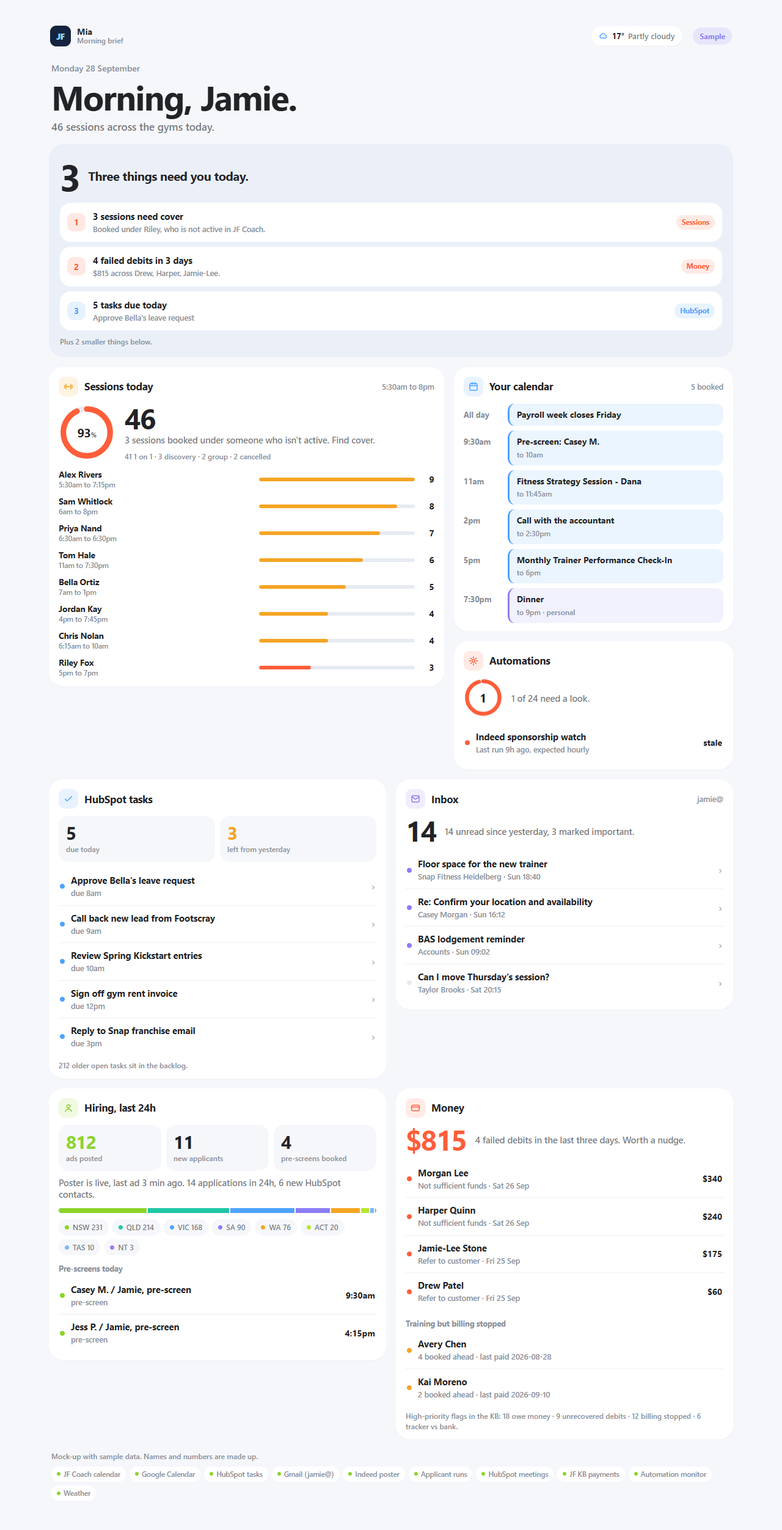
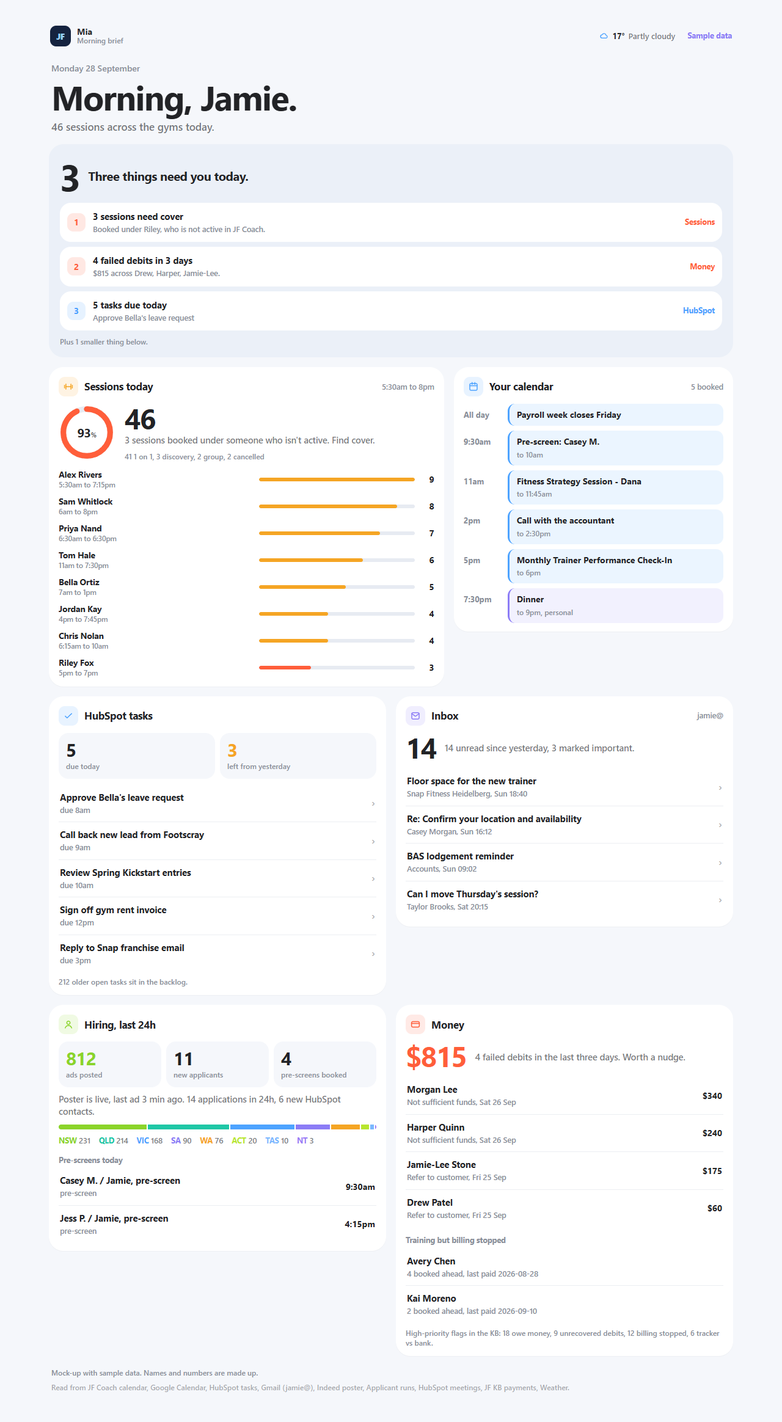
Morning brief mock-up r2: no pills or status dots, fleet watch dropped

diff --git a/index.html b/index.html
@@ -1,4 +1,4 @@
-<!doctype html><html lang="en-AU"><head><meta charset="utf-8"><meta name="viewport" content="width=device-width,initial-scale=1,viewport-fit=cover"><link rel="icon" href="data:,"><meta name="robots" content="noindex,nofollow"><meta name="referrer" content="no-referrer"><meta name="theme-color" content="#F5F7FB" media="(prefers-color-scheme: light)"><meta name="theme-color" content="#15161B" media="(prefers-color-scheme: dark)"><title>Morning brief · Monday 28 September</title><style>
+<!doctype html><html lang="en-AU"><head><meta charset="utf-8"><meta name="viewport" content="width=device-width,initial-scale=1,viewport-fit=cover"><link rel="icon" href="data:,"><meta name="robots" content="noindex,nofollow"><meta name="referrer" content="no-referrer"><meta name="theme-color" content="#F5F7FB" media="(prefers-color-scheme: light)"><meta name="theme-color" content="#15161B" media="(prefers-color-scheme: dark)"><title>Morning brief, Monday 28 September</title><style>
 :root{--ink:#222326;--ink2:rgba(31,32,37,.6);--ink3:rgba(31,32,37,.38);--muted:#8A8F99;--bg:#F5F7FB;--tile:#FFFFFF;--card:#EBF0F8;
 --track:#E7EBF2;--hair:#ECEEF2;--dark:#1F2025;--green:#8BD42A;--ease:cubic-bezier(.2,.7,.2,1);color-scheme:light dark}
 @media (prefers-color-scheme:dark){:root{--ink:#FFFFFF;--ink2:rgba(255,255,255,.62);--ink3:rgba(255,255,255,.38);--muted:rgba(255,255,255,.5);
@@ -12,9 +12,9 @@ a{color:inherit;text-decoration:none}
 .top{display:flex;align-items:center;gap:10px;padding:6px 2px 0}
 .mark{width:34px;height:34px;border-radius:10px;background:#15233F;color:#9CD3FF;display:grid;place-items:center;font:800 13px/1 Inter,system-ui,sans-serif;letter-spacing:-.02em}
 .who{display:flex;flex-direction:column;line-height:1.15}.who b{font-size:14px;font-weight:650}.who small{font-size:12px;color:var(--muted)}
-.wchip{margin-left:auto;white-space:nowrap;display:inline-flex;align-items:center;gap:6px;padding:7px 12px;border-radius:128px;background:var(--tile);box-shadow:0 1px 0 rgba(0,0,0,.03);font-size:13px;color:var(--ink2)}
+.wchip{margin-left:auto;white-space:nowrap;display:inline-flex;align-items:center;gap:6px;font-size:13px;color:var(--ink2)}
 .wchip b{color:var(--ink);font-weight:700}
-.samp{margin-left:8px;padding:6px 11px;border-radius:128px;background:rgba(140,124,246,.14);color:#8C7CF6;font-size:12px;font-weight:650}
+.samp{margin-left:10px;color:#8C7CF6;font-size:12.5px;font-weight:650}
 .hello{padding:26px 4px 18px}
 .hello .date{font-size:14px;color:var(--muted);font-weight:600}
 .hello h1{font-size:40px;line-height:1;font-weight:700;letter-spacing:-.03em;margin-top:8px}
@@ -34,7 +34,7 @@ background:color-mix(in srgb,var(--c) 14%,transparent)}
 .rt{flex:1;min-width:0;display:flex;flex-direction:column;gap:2px}
 .rt b{font-weight:650;font-size:15px;letter-spacing:-.01em;overflow:hidden;text-overflow:ellipsis}
 .rt small{font-size:12.5px;color:var(--muted);overflow:hidden;text-overflow:ellipsis;white-space:nowrap}
-.tag{flex:none;font-size:11.5px;font-weight:650;color:var(--c);padding:4px 9px;border-radius:128px;background:color-mix(in srgb,var(--c) 13%,transparent)}
+.area{flex:none;font-size:12.5px;font-weight:650}
 .th{display:flex;align-items:center;gap:10px;margin-bottom:12px}
 .th h2{font-size:17px;font-weight:700;letter-spacing:-.02em}
 .thr{margin-left:auto;font-size:12.5px;color:var(--muted);font-weight:600}
@@ -80,35 +80,33 @@ a.row:active{opacity:.6}
 .stack{display:flex;height:8px;border-radius:8px;overflow:hidden;gap:2px;margin-top:12px}
 .stack i{width:var(--w);transform-origin:left;transform:scaleX(0);transition:transform 1.1s var(--ease) .3s}
 .in .stack i{transform:scaleX(1)}
-.chips{display:flex;flex-wrap:wrap;gap:6px;margin-top:10px}
-.chip{display:inline-flex;align-items:center;gap:6px;font-size:12px;font-weight:600;padding:5px 10px;border-radius:128px;background:var(--bg);color:var(--ink2)}
-.chip i{width:7px;height:7px;border-radius:50%}
+.legend{display:flex;flex-wrap:wrap;gap:4px 14px;margin-top:10px;font-size:12.5px;font-weight:600;color:var(--ink2)}
+.legend b{font-weight:700}
 .off{opacity:.85}.big-off{font-size:15px;font-weight:600;color:var(--ink2)}
 .foot{margin:18px 4px 0;font-size:12px;color:var(--muted);line-height:1.5}
-.src{display:flex;flex-wrap:wrap;gap:6px;margin-top:8px}
-.src span{display:inline-flex;align-items:center;gap:5px;padding:4px 9px;border-radius:128px;background:var(--tile);font-size:11.5px;font-weight:600}
-.src i{width:6px;height:6px;border-radius:50%}
+.src{margin-top:6px;color:var(--ink3)}
+.wl{margin-bottom:8px;font-size:13px;color:var(--ink2)}.wl a{color:var(--blue,#4DA3FF);font-weight:650}
 .rv{opacity:0;transform:translateY(28px);filter:blur(8px);transition:opacity 1s var(--ease),transform 1s var(--ease),filter 1s var(--ease);transition-delay:calc(var(--d,0)*.08s)}
 .rv.in{opacity:1;transform:none;filter:none}
 @media (min-width:900px){body{padding:36px 28px 48px}.wrap{max-width:1120px}.grid{grid-template-columns:repeat(12,1fr);gap:16px}
 .col{gap:16px}.span12{grid-column:span 12}.span7{grid-column:span 7}.span5{grid-column:span 5}.span6{grid-column:span 6}.hello h1{font-size:56px}}
 @media (prefers-reduced-motion:reduce){.rv{opacity:1;transform:none;filter:none;transition:none}.ring .val{transition:none;stroke-dasharray:var(--v) 100}
 .bf,.stack i{transition:none;transform:none}}
-@supports not (background:color-mix(in srgb,red 10%,transparent)){.isq,.pn,.tag{background:rgba(120,130,150,.14)}.tb{background:rgba(120,130,150,.1)}}
+@supports not (background:color-mix(in srgb,red 10%,transparent)){.isq,.pn{background:rgba(120,130,150,.14)}.tb{background:rgba(120,130,150,.1)}}
 </style></head><body>
 <div class="wrap">
-  <header class="top rv"><span class="mark">JF</span><div class="who"><b>Mia</b><small>Morning brief</small></div><span class="wchip"><svg width="16" height="16" viewBox="0 0 24 24" fill="none" stroke="#4DA3FF" stroke-width="2" stroke-linecap="round" stroke-linejoin="round" aria-hidden="true"><path d="M7 17a4 4 0 010-8 5 5 0 019.6 1.2A3.5 3.5 0 0117 17z"/></svg><b>17°</b><span>Partly cloudy</span></span><span class="samp">Sample</span></header>
+  <header class="top rv"><span class="mark">JF</span><div class="who"><b>Mia</b><small>Morning brief</small></div><span class="wchip"><svg width="16" height="16" viewBox="0 0 24 24" fill="none" stroke="#4DA3FF" stroke-width="2" stroke-linecap="round" stroke-linejoin="round" aria-hidden="true"><path d="M7 17a4 4 0 010-8 5 5 0 019.6 1.2A3.5 3.5 0 0117 17z"/></svg><b>17°</b><span>Partly cloudy</span></span><span class="samp">Sample data</span></header>
   <div class="hello rv" style="--d:1"><div class="date">Monday 28 September</div><h1>Morning, Jamie.</h1><p>46 sessions across the gyms today.</p></div>
   <main class="grid">
-    <div class="span12"><section class="card rv"><div class="hwrap"><div class="hnum">3</div><p class="lead">Three things need you today.</p></div><div class="plist"><div class="prow rv" style="--d:1"><span class="pn" style="--c:#FF5E3A">1</span><div class="rt"><b>3 sessions need cover</b><small>Booked under Riley, who is not active in JF Coach.</small></div><span class="tag" style="--c:#FF5E3A">Sessions</span></div><div class="prow rv" style="--d:2"><span class="pn" style="--c:#FF5E3A">2</span><div class="rt"><b>4 failed debits in 3 days</b><small>$815 across Drew, Harper, Jamie-Lee.</small></div><span class="tag" style="--c:#FF5E3A">Money</span></div><div class="prow rv" style="--d:3"><span class="pn" style="--c:#4DA3FF">3</span><div class="rt"><b>5 tasks due today</b><small>Approve Bella&#x27;s leave request</small></div><span class="tag" style="--c:#4DA3FF">HubSpot</span></div></div><p class="cap" style="margin-top:10px">Plus 2 smaller things below.</p></section></div>
-    <div class="span7"><section class="tile rv"><div class="th"><span class="isq" style="--c:#F5A524"><svg width="18" height="18" viewBox="0 0 24 24" fill="none" stroke="#F5A524" stroke-width="2" stroke-linecap="round" stroke-linejoin="round" aria-hidden="true"><path d="M6.5 6.5v11M17.5 6.5v11M3.5 9v6M20.5 9v6M6.5 12h11" /></svg></span><h2>Sessions today</h2><span class="thr">5:30am to 8pm</span></div><div class="metric"><div class="ring" style="width:92px;height:92px;--v:93.5"><svg viewBox="0 0 36 36"><circle class="trk" cx="18" cy="18" r="15" stroke-width="3.6"/><circle class="val" cx="18" cy="18" r="15" stroke="#FF5E3A" stroke-width="3.6" pathLength="100" transform="rotate(-90 18 18)"/></svg><span>93<small>%</small></span></div><div><div class="num">46</div><p class="say">3 sessions booked under someone who isn&#x27;t active. Find cover.</p><p class="cap">41 1 on 1 · 3 discovery · 2 group · 2 cancelled</p></div></div><div class="bars"><div class="bar-row"><div class="bl"><b>Alex Rivers</b><small>5:30am to 7:15pm</small></div><div class="bt"><i class="bf" style="--w:100.0%;background:#F5A524"></i></div><span class="bn">9</span></div><div class="bar-row"><div class="bl"><b>Sam Whitlock</b><small>6am to 8pm</small></div><div class="bt"><i class="bf" style="--w:88.9%;background:#F5A524"></i></div><span class="bn">8</span></div><div class="bar-row"><div class="bl"><b>Priya Nand</b><small>6:30am to 6:30pm</small></div><div class="bt"><i class="bf" style="--w:77.8%;background:#F5A524"></i></div><span class="bn">7</span></div><div class="bar-row"><div class="bl"><b>Tom Hale</b><small>11am to 7:30pm</small></div><div class="bt"><i class="bf" style="--w:66.7%;background:#F5A524"></i></div><span class="bn">6</span></div><div class="bar-row"><div class="bl"><b>Bella Ortiz</b><small>7am to 1pm</small></div><div class="bt"><i class="bf" style="--w:55.6%;background:#F5A524"></i></div><span class="bn">5</span></div><div class="bar-row"><div class="bl"><b>Jordan Kay</b><small>4pm to 7:45pm</small></div><div class="bt"><i class="bf" style="--w:44.4%;background:#F5A524"></i></div><span class="bn">4</span></div><div class="bar-row"><div class="bl"><b>Chris Nolan</b><small>6:15am to 10am</small></div><div class="bt"><i class="bf" style="--w:44.4%;background:#F5A524"></i></div><span class="bn">4</span></div><div class="bar-row"><div class="bl"><b>Riley Fox</b><small>5pm to 7pm</small></div><div class="bt"><i class="bf" style="--w:33.3%;background:#FF5E3A"></i></div><span class="bn">3</span></div></div></section></div>
-    <div class="span5 col"><section class="tile rv"><div class="th"><span class="isq" style="--c:#4DA3FF"><svg width="18" height="18" viewBox="0 0 24 24" fill="none" stroke="#4DA3FF" stroke-width="2" stroke-linecap="round" stroke-linejoin="round" aria-hidden="true"><rect x="4" y="5" width="16" height="15" rx="3"/><path d="M4 10h16M9 3v4M15 3v4"/></svg></span><h2>Your calendar</h2><span class="thr">5 booked</span></div><div class="tline"><div class="tl"><span class="tt">All day</span><div class="tb" style="--c:#4DA3FF"><b>Payroll week closes Friday</b><small></small></div></div><div class="tl"><span class="tt">9:30am</span><div class="tb" style="--c:#4DA3FF"><b>Pre-screen: Casey M.</b><small>to 10am</small></div></div><div class="tl"><span class="tt">11am</span><div class="tb" style="--c:#4DA3FF"><b>Fitness Strategy Session - Dana</b><small>to 11:45am</small></div></div><div class="tl"><span class="tt">2pm</span><div class="tb" style="--c:#4DA3FF"><b>Call with the accountant</b><small>to 2:30pm</small></div></div><div class="tl"><span class="tt">5pm</span><div class="tb" style="--c:#4DA3FF"><b>Monthly Trainer Performance Check-In</b><small>to 6pm</small></div></div><div class="tl"><span class="tt">7:30pm</span><div class="tb" style="--c:#8C7CF6"><b>Dinner</b><small>to 9pm · personal</small></div></div></div></section><section class="tile rv"><div class="th"><span class="isq" style="--c:#FF5E3A"><svg width="18" height="18" viewBox="0 0 24 24" fill="none" stroke="#FF5E3A" stroke-width="2" stroke-linecap="round" stroke-linejoin="round" aria-hidden="true"><path d="M12 3v3M12 18v3M3 12h3M18 12h3M6 6l2 2M16 16l2 2M6 18l2-2M16 8l2-2"/><circle cx="12" cy="12" r="3"/></svg></span><h2>Automations</h2><span class="thr"></span></div><div class="metric sm"><div class="ring" style="width:64px;height:64px;--v:95.8"><svg viewBox="0 0 36 36"><circle class="trk" cx="18" cy="18" r="15" stroke-width="3.6"/><circle class="val" cx="18" cy="18" r="15" stroke="#FF5E3A" stroke-width="3.6" pathLength="100" transform="rotate(-90 18 18)"/></svg><span>1</span></div><p class="say">1 of 24 need a look.</p></div><div class="list"><div class="row"><i class="dot" style="background:#FF5E3A"></i><div class="rt"><b>Indeed sponsorship watch</b><small>Last run 9h ago, expected hourly</small></div><span class="rr">stale</span></div></div></section></div>
-    <div class="span6"><section class="tile rv"><div class="th"><span class="isq" style="--c:#4DA3FF"><svg width="18" height="18" viewBox="0 0 24 24" fill="none" stroke="#4DA3FF" stroke-width="2" stroke-linecap="round" stroke-linejoin="round" aria-hidden="true"><path d="M5 12.5l4 4L19 7"/></svg></span><h2>HubSpot tasks</h2><span class="thr"></span></div><div class="stats"><div class="stat"><div class="num s">5</div><small>due today</small></div><div class="stat"><div class="num s" style="color:#F5A524">3</div><small>left from yesterday</small></div></div><div class="list"><a class="row" href="#" target="_blank" rel="noopener noreferrer"><i class="dot" style="background:#4DA3FF"></i><div class="rt"><b>Approve Bella&#x27;s leave request</b><small>due 8am</small></div><span class="rr"></span><em>›</em></a><a class="row" href="#" target="_blank" rel="noopener noreferrer"><i class="dot" style="background:#4DA3FF"></i><div class="rt"><b>Call back new lead from Footscray</b><small>due 9am</small></div><span class="rr"></span><em>›</em></a><a class="row" href="#" target="_blank" rel="noopener noreferrer"><i class="dot" style="background:#4DA3FF"></i><div class="rt"><b>Review Spring Kickstart entries</b><small>due 10am</small></div><span class="rr"></span><em>›</em></a><a class="row" href="#" target="_blank" rel="noopener noreferrer"><i class="dot" style="background:#4DA3FF"></i><div class="rt"><b>Sign off gym rent invoice</b><small>due 12pm</small></div><span class="rr"></span><em>›</em></a><a class="row" href="#" target="_blank" rel="noopener noreferrer"><i class="dot" style="background:#4DA3FF"></i><div class="rt"><b>Reply to Snap franchise email</b><small>due 3pm</small></div><span class="rr"></span><em>›</em></a></div><p class="cap">212 older open tasks sit in the backlog.</p></section></div>
-    <div class="span6"><section class="tile rv"><div class="th"><span class="isq" style="--c:#8C7CF6"><svg width="18" height="18" viewBox="0 0 24 24" fill="none" stroke="#8C7CF6" stroke-width="2" stroke-linecap="round" stroke-linejoin="round" aria-hidden="true"><path d="M4 7l8 6 8-6"/><rect x="4" y="5" width="16" height="14" rx="3"/></svg></span><h2>Inbox</h2><span class="thr">jamie@</span></div><div class="metric sm"><div class="num">14</div><p class="say">14 unread since yesterday, 3 marked important.</p></div><div class="list"><a class="row" href="#" target="_blank" rel="noopener noreferrer"><i class="dot" style="background:#8C7CF6"></i><div class="rt"><b>Floor space for the new trainer</b><small>Snap Fitness Heidelberg · Sun 18:40</small></div><span class="rr"></span><em>›</em></a><a class="row" href="#" target="_blank" rel="noopener noreferrer"><i class="dot" style="background:#8C7CF6"></i><div class="rt"><b>Re: Confirm your location and availability</b><small>Casey Morgan · Sun 16:12</small></div><span class="rr"></span><em>›</em></a><a class="row" href="#" target="_blank" rel="noopener noreferrer"><i class="dot" style="background:#8C7CF6"></i><div class="rt"><b>BAS lodgement reminder</b><small>Accounts · Sun 09:02</small></div><span class="rr"></span><em>›</em></a><a class="row" href="#" target="_blank" rel="noopener noreferrer"><i class="dot" style="background:var(--track)"></i><div class="rt"><b>Can I move Thursday&#x27;s session?</b><small>Taylor Brooks · Sat 20:15</small></div><span class="rr"></span><em>›</em></a></div></section></div>
-    <div class="span6"><section class="tile rv"><div class="th"><span class="isq" style="--c:#8BD42A"><svg width="18" height="18" viewBox="0 0 24 24" fill="none" stroke="#8BD42A" stroke-width="2" stroke-linecap="round" stroke-linejoin="round" aria-hidden="true"><circle cx="12" cy="8.5" r="3.5"/><path d="M5 20c1.2-3.6 3.9-5.5 7-5.5s5.8 1.9 7 5.5"/></svg></span><h2>Hiring, last 24h</h2><span class="thr"></span></div><div class="stats three"><div class="stat"><div class="num s" style="color:#8BD42A">812</div><small>ads posted</small></div><div class="stat"><div class="num s" style="color:inherit">11</div><small>new applicants</small></div><div class="stat"><div class="num s" style="color:inherit">4</div><small>pre-screens booked</small></div></div><p class="say">Poster is live, last ad 3 min ago. 14 applications in 24h, 6 new HubSpot contacts.</p><div class="stack"><i style="--w:28.45%;background:#8BD42A"></i><i style="--w:26.35%;background:#1FC7A6"></i><i style="--w:20.69%;background:#4DA3FF"></i><i style="--w:11.08%;background:#8C7CF6"></i><i style="--w:9.36%;background:#F5A524"></i><i style="--w:2.46%;background:#B8E62E"></i><i style="--w:1.23%;background:#7AB8FF"></i><i style="--w:0.37%;background:#9B7CF6"></i></div><div class="chips"><span class="chip"><i style="background:#8BD42A"></i>NSW 231</span><span class="chip"><i style="background:#1FC7A6"></i>QLD 214</span><span class="chip"><i style="background:#4DA3FF"></i>VIC 168</span><span class="chip"><i style="background:#8C7CF6"></i>SA 90</span><span class="chip"><i style="background:#F5A524"></i>WA 76</span><span class="chip"><i style="background:#B8E62E"></i>ACT 20</span><span class="chip"><i style="background:#7AB8FF"></i>TAS 10</span><span class="chip"><i style="background:#9B7CF6"></i>NT 3</span></div><p class="sub">Pre-screens today</p><div class="list"><div class="row"><i class="dot" style="background:#8BD42A"></i><div class="rt"><b>Casey M. / Jamie, pre-screen</b><small>pre-screen</small></div><span class="rr">9:30am</span></div><div class="row"><i class="dot" style="background:#8BD42A"></i><div class="rt"><b>Jess P. / Jamie, pre-screen</b><small>pre-screen</small></div><span class="rr">4:15pm</span></div></div></section></div>
-    <div class="span6"><section class="tile rv"><div class="th"><span class="isq" style="--c:#FF5E3A"><svg width="18" height="18" viewBox="0 0 24 24" fill="none" stroke="#FF5E3A" stroke-width="2" stroke-linecap="round" stroke-linejoin="round" aria-hidden="true"><rect x="3.5" y="6" width="17" height="12" rx="3"/><path d="M3.5 10h17"/></svg></span><h2>Money</h2><span class="thr"></span></div><div class="metric sm"><div class="num" style="color:#FF5E3A">$815</div><p class="say">4 failed debits in the last three days. Worth a nudge.</p></div><div class="list"><div class="row"><i class="dot" style="background:#FF5E3A"></i><div class="rt"><b>Morgan Lee</b><small>Not sufficient funds · Sat 26 Sep</small></div><span class="rr">$340</span></div><div class="row"><i class="dot" style="background:#FF5E3A"></i><div class="rt"><b>Harper Quinn</b><small>Not sufficient funds · Sat 26 Sep</small></div><span class="rr">$240</span></div><div class="row"><i class="dot" style="background:#FF5E3A"></i><div class="rt"><b>Jamie-Lee Stone</b><small>Refer to customer · Fri 25 Sep</small></div><span class="rr">$175</span></div><div class="row"><i class="dot" style="background:#FF5E3A"></i><div class="rt"><b>Drew Patel</b><small>Refer to customer · Fri 25 Sep</small></div><span class="rr">$60</span></div></div><p class="sub">Training but billing stopped</p><div class="list"><div class="row"><i class="dot" style="background:#F5A524"></i><div class="rt"><b>Avery Chen</b><small>4 booked ahead · last paid 2026-08-28</small></div><span class="rr"></span></div><div class="row"><i class="dot" style="background:#F5A524"></i><div class="rt"><b>Kai Moreno</b><small>2 booked ahead · last paid 2026-09-10</small></div><span class="rr"></span></div></div><p class="cap">High-priority flags in the KB: 18 owe money · 9 unrecovered debits · 12 billing stopped · 6 tracker vs bank.</p></section></div>
+    <div class="span12"><section class="card rv"><div class="hwrap"><div class="hnum">3</div><p class="lead">Three things need you today.</p></div><div class="plist"><div class="prow rv" style="--d:1"><span class="pn" style="--c:#FF5E3A">1</span><div class="rt"><b>3 sessions need cover</b><small>Booked under Riley, who is not active in JF Coach.</small></div><span class="area" style="color:#FF5E3A">Sessions</span></div><div class="prow rv" style="--d:2"><span class="pn" style="--c:#FF5E3A">2</span><div class="rt"><b>4 failed debits in 3 days</b><small>$815 across Drew, Harper, Jamie-Lee.</small></div><span class="area" style="color:#FF5E3A">Money</span></div><div class="prow rv" style="--d:3"><span class="pn" style="--c:#4DA3FF">3</span><div class="rt"><b>5 tasks due today</b><small>Approve Bella&#x27;s leave request</small></div><span class="area" style="color:#4DA3FF">HubSpot</span></div></div><p class="cap" style="margin-top:10px">Plus 1 smaller thing below.</p></section></div>
+    <div class="span7"><section class="tile rv"><div class="th"><span class="isq" style="--c:#F5A524"><svg width="18" height="18" viewBox="0 0 24 24" fill="none" stroke="#F5A524" stroke-width="2" stroke-linecap="round" stroke-linejoin="round" aria-hidden="true"><path d="M6.5 6.5v11M17.5 6.5v11M3.5 9v6M20.5 9v6M6.5 12h11" /></svg></span><h2>Sessions today</h2><span class="thr">5:30am to 8pm</span></div><div class="metric"><div class="ring" style="width:92px;height:92px;--v:93.5"><svg viewBox="0 0 36 36"><circle class="trk" cx="18" cy="18" r="15" stroke-width="3.6"/><circle class="val" cx="18" cy="18" r="15" stroke="#FF5E3A" stroke-width="3.6" pathLength="100" transform="rotate(-90 18 18)"/></svg><span>93<small>%</small></span></div><div><div class="num">46</div><p class="say">3 sessions booked under someone who isn&#x27;t active. Find cover.</p><p class="cap">41 1 on 1, 3 discovery, 2 group, 2 cancelled</p></div></div><div class="bars"><div class="bar-row"><div class="bl"><b>Alex Rivers</b><small>5:30am to 7:15pm</small></div><div class="bt"><i class="bf" style="--w:100.0%;background:#F5A524"></i></div><span class="bn">9</span></div><div class="bar-row"><div class="bl"><b>Sam Whitlock</b><small>6am to 8pm</small></div><div class="bt"><i class="bf" style="--w:88.9%;background:#F5A524"></i></div><span class="bn">8</span></div><div class="bar-row"><div class="bl"><b>Priya Nand</b><small>6:30am to 6:30pm</small></div><div class="bt"><i class="bf" style="--w:77.8%;background:#F5A524"></i></div><span class="bn">7</span></div><div class="bar-row"><div class="bl"><b>Tom Hale</b><small>11am to 7:30pm</small></div><div class="bt"><i class="bf" style="--w:66.7%;background:#F5A524"></i></div><span class="bn">6</span></div><div class="bar-row"><div class="bl"><b>Bella Ortiz</b><small>7am to 1pm</small></div><div class="bt"><i class="bf" style="--w:55.6%;background:#F5A524"></i></div><span class="bn">5</span></div><div class="bar-row"><div class="bl"><b>Jordan Kay</b><small>4pm to 7:45pm</small></div><div class="bt"><i class="bf" style="--w:44.4%;background:#F5A524"></i></div><span class="bn">4</span></div><div class="bar-row"><div class="bl"><b>Chris Nolan</b><small>6:15am to 10am</small></div><div class="bt"><i class="bf" style="--w:44.4%;background:#F5A524"></i></div><span class="bn">4</span></div><div class="bar-row"><div class="bl"><b>Riley Fox</b><small>5pm to 7pm</small></div><div class="bt"><i class="bf" style="--w:33.3%;background:#FF5E3A"></i></div><span class="bn">3</span></div></div></section></div>
+    <div class="span5 col"><section class="tile rv"><div class="th"><span class="isq" style="--c:#4DA3FF"><svg width="18" height="18" viewBox="0 0 24 24" fill="none" stroke="#4DA3FF" stroke-width="2" stroke-linecap="round" stroke-linejoin="round" aria-hidden="true"><rect x="4" y="5" width="16" height="15" rx="3"/><path d="M4 10h16M9 3v4M15 3v4"/></svg></span><h2>Your calendar</h2><span class="thr">5 booked</span></div><div class="tline"><div class="tl"><span class="tt">All day</span><div class="tb" style="--c:#4DA3FF"><b>Payroll week closes Friday</b><small></small></div></div><div class="tl"><span class="tt">9:30am</span><div class="tb" style="--c:#4DA3FF"><b>Pre-screen: Casey M.</b><small>to 10am</small></div></div><div class="tl"><span class="tt">11am</span><div class="tb" style="--c:#4DA3FF"><b>Fitness Strategy Session - Dana</b><small>to 11:45am</small></div></div><div class="tl"><span class="tt">2pm</span><div class="tb" style="--c:#4DA3FF"><b>Call with the accountant</b><small>to 2:30pm</small></div></div><div class="tl"><span class="tt">5pm</span><div class="tb" style="--c:#4DA3FF"><b>Monthly Trainer Performance Check-In</b><small>to 6pm</small></div></div><div class="tl"><span class="tt">7:30pm</span><div class="tb" style="--c:#8C7CF6"><b>Dinner</b><small>to 9pm, personal</small></div></div></div></section></div>
+    <div class="span6"><section class="tile rv"><div class="th"><span class="isq" style="--c:#4DA3FF"><svg width="18" height="18" viewBox="0 0 24 24" fill="none" stroke="#4DA3FF" stroke-width="2" stroke-linecap="round" stroke-linejoin="round" aria-hidden="true"><path d="M5 12.5l4 4L19 7"/></svg></span><h2>HubSpot tasks</h2><span class="thr"></span></div><div class="stats"><div class="stat"><div class="num s">5</div><small>due today</small></div><div class="stat"><div class="num s" style="color:#F5A524">3</div><small>left from yesterday</small></div></div><div class="list"><a class="row" href="#" target="_blank" rel="noopener noreferrer"><div class="rt"><b>Approve Bella&#x27;s leave request</b><small>due 8am</small></div><span class="rr"></span><em>›</em></a><a class="row" href="#" target="_blank" rel="noopener noreferrer"><div class="rt"><b>Call back new lead from Footscray</b><small>due 9am</small></div><span class="rr"></span><em>›</em></a><a class="row" href="#" target="_blank" rel="noopener noreferrer"><div class="rt"><b>Review Spring Kickstart entries</b><small>due 10am</small></div><span class="rr"></span><em>›</em></a><a class="row" href="#" target="_blank" rel="noopener noreferrer"><div class="rt"><b>Sign off gym rent invoice</b><small>due 12pm</small></div><span class="rr"></span><em>›</em></a><a class="row" href="#" target="_blank" rel="noopener noreferrer"><div class="rt"><b>Reply to Snap franchise email</b><small>due 3pm</small></div><span class="rr"></span><em>›</em></a></div><p class="cap">212 older open tasks sit in the backlog.</p></section></div>
+    <div class="span6"><section class="tile rv"><div class="th"><span class="isq" style="--c:#8C7CF6"><svg width="18" height="18" viewBox="0 0 24 24" fill="none" stroke="#8C7CF6" stroke-width="2" stroke-linecap="round" stroke-linejoin="round" aria-hidden="true"><path d="M4 7l8 6 8-6"/><rect x="4" y="5" width="16" height="14" rx="3"/></svg></span><h2>Inbox</h2><span class="thr">jamie@</span></div><div class="metric sm"><div class="num">14</div><p class="say">14 unread since yesterday, 3 marked important.</p></div><div class="list"><a class="row" href="#" target="_blank" rel="noopener noreferrer"><div class="rt"><b>Floor space for the new trainer</b><small>Snap Fitness Heidelberg, Sun 18:40</small></div><span class="rr"></span><em>›</em></a><a class="row" href="#" target="_blank" rel="noopener noreferrer"><div class="rt"><b>Re: Confirm your location and availability</b><small>Casey Morgan, Sun 16:12</small></div><span class="rr"></span><em>›</em></a><a class="row" href="#" target="_blank" rel="noopener noreferrer"><div class="rt"><b>BAS lodgement reminder</b><small>Accounts, Sun 09:02</small></div><span class="rr"></span><em>›</em></a><a class="row" href="#" target="_blank" rel="noopener noreferrer"><div class="rt"><b>Can I move Thursday&#x27;s session?</b><small>Taylor Brooks, Sat 20:15</small></div><span class="rr"></span><em>›</em></a></div></section></div>
+    <div class="span6"><section class="tile rv"><div class="th"><span class="isq" style="--c:#8BD42A"><svg width="18" height="18" viewBox="0 0 24 24" fill="none" stroke="#8BD42A" stroke-width="2" stroke-linecap="round" stroke-linejoin="round" aria-hidden="true"><circle cx="12" cy="8.5" r="3.5"/><path d="M5 20c1.2-3.6 3.9-5.5 7-5.5s5.8 1.9 7 5.5"/></svg></span><h2>Hiring, last 24h</h2><span class="thr"></span></div><div class="stats three"><div class="stat"><div class="num s" style="color:#8BD42A">812</div><small>ads posted</small></div><div class="stat"><div class="num s" style="color:inherit">11</div><small>new applicants</small></div><div class="stat"><div class="num s" style="color:inherit">4</div><small>pre-screens booked</small></div></div><p class="say">Poster is live, last ad 3 min ago. 14 applications in 24h, 6 new HubSpot contacts.</p><div class="stack"><i style="--w:28.45%;background:#8BD42A"></i><i style="--w:26.35%;background:#1FC7A6"></i><i style="--w:20.69%;background:#4DA3FF"></i><i style="--w:11.08%;background:#8C7CF6"></i><i style="--w:9.36%;background:#F5A524"></i><i style="--w:2.46%;background:#B8E62E"></i><i style="--w:1.23%;background:#7AB8FF"></i><i style="--w:0.37%;background:#9B7CF6"></i></div><div class="legend"><span><b style="color:#8BD42A">NSW</b> 231</span><span><b style="color:#1FC7A6">QLD</b> 214</span><span><b style="color:#4DA3FF">VIC</b> 168</span><span><b style="color:#8C7CF6">SA</b> 90</span><span><b style="color:#F5A524">WA</b> 76</span><span><b style="color:#B8E62E">ACT</b> 20</span><span><b style="color:#7AB8FF">TAS</b> 10</span><span><b style="color:#9B7CF6">NT</b> 3</span></div><p class="sub">Pre-screens today</p><div class="list"><div class="row"><div class="rt"><b>Casey M. / Jamie, pre-screen</b><small>pre-screen</small></div><span class="rr">9:30am</span></div><div class="row"><div class="rt"><b>Jess P. / Jamie, pre-screen</b><small>pre-screen</small></div><span class="rr">4:15pm</span></div></div></section></div>
+    <div class="span6"><section class="tile rv"><div class="th"><span class="isq" style="--c:#FF5E3A"><svg width="18" height="18" viewBox="0 0 24 24" fill="none" stroke="#FF5E3A" stroke-width="2" stroke-linecap="round" stroke-linejoin="round" aria-hidden="true"><rect x="3.5" y="6" width="17" height="12" rx="3"/><path d="M3.5 10h17"/></svg></span><h2>Money</h2><span class="thr"></span></div><div class="metric sm"><div class="num" style="color:#FF5E3A">$815</div><p class="say">4 failed debits in the last three days. Worth a nudge.</p></div><div class="list"><div class="row"><div class="rt"><b>Morgan Lee</b><small>Not sufficient funds, Sat 26 Sep</small></div><span class="rr">$340</span></div><div class="row"><div class="rt"><b>Harper Quinn</b><small>Not sufficient funds, Sat 26 Sep</small></div><span class="rr">$240</span></div><div class="row"><div class="rt"><b>Jamie-Lee Stone</b><small>Refer to customer, Fri 25 Sep</small></div><span class="rr">$175</span></div><div class="row"><div class="rt"><b>Drew Patel</b><small>Refer to customer, Fri 25 Sep</small></div><span class="rr">$60</span></div></div><p class="sub">Training but billing stopped</p><div class="list"><div class="row"><div class="rt"><b>Avery Chen</b><small>4 booked ahead, last paid 2026-08-28</small></div><span class="rr"></span></div><div class="row"><div class="rt"><b>Kai Moreno</b><small>2 booked ahead, last paid 2026-09-10</small></div><span class="rr"></span></div></div><p class="cap">High-priority flags in the KB: 18 owe money, 9 unrecovered debits, 12 billing stopped, 6 tracker vs bank.</p></section></div>
   </main>
-  <footer class="foot rv">Mock-up with sample data. Names and numbers are made up.<div class="src"><span><i style="background:#8BD42A"></i>JF Coach calendar</span><span><i style="background:#8BD42A"></i>Google Calendar</span><span><i style="background:#8BD42A"></i>HubSpot tasks</span><span><i style="background:#8BD42A"></i>Gmail (jamie@)</span><span><i style="background:#8BD42A"></i>Indeed poster</span><span><i style="background:#8BD42A"></i>Applicant runs</span><span><i style="background:#8BD42A"></i>HubSpot meetings</span><span><i style="background:#8BD42A"></i>JF KB payments</span><span><i style="background:#8BD42A"></i>Automation monitor</span><span><i style="background:#8BD42A"></i>Weather</span></div></footer>
+  <footer class="foot rv"><p>Mock-up with sample data. Names and numbers are made up.</p><p class="src">Read from JF Coach calendar, Google Calendar, HubSpot tasks, Gmail (jamie@), Indeed poster, Applicant runs, HubSpot meetings, JF KB payments, Weather.</p></footer>
 </div><script>
 (function(){var els=[].slice.call(document.querySelectorAll('.rv,.ring,.bars'));
 function show(el){el.classList.add('in');[].forEach.call(el.querySelectorAll('.ring,.bars'),function(r){r.classList.add('in')})}
